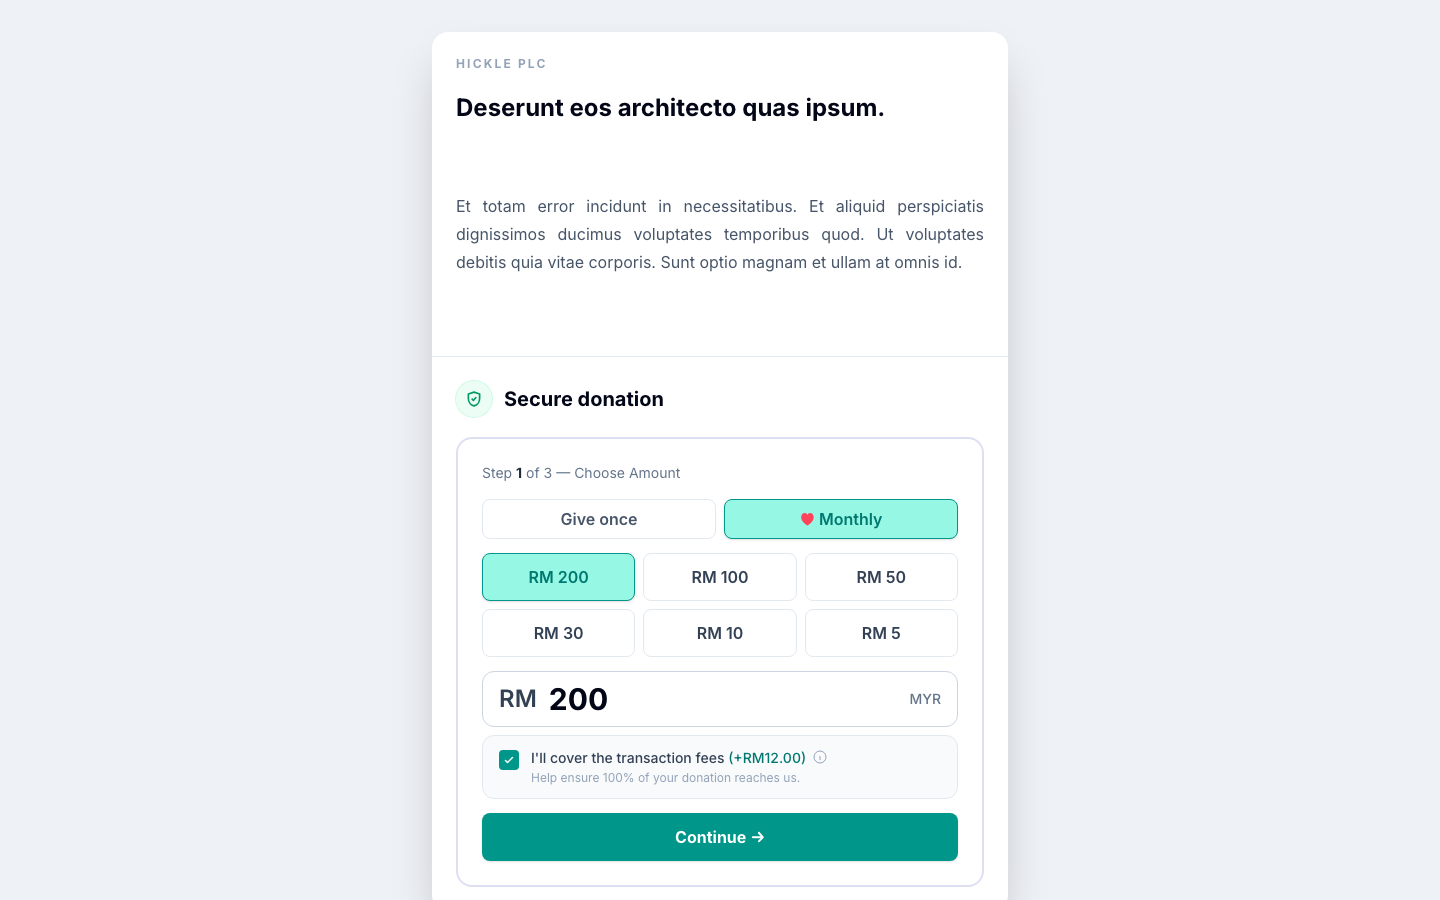
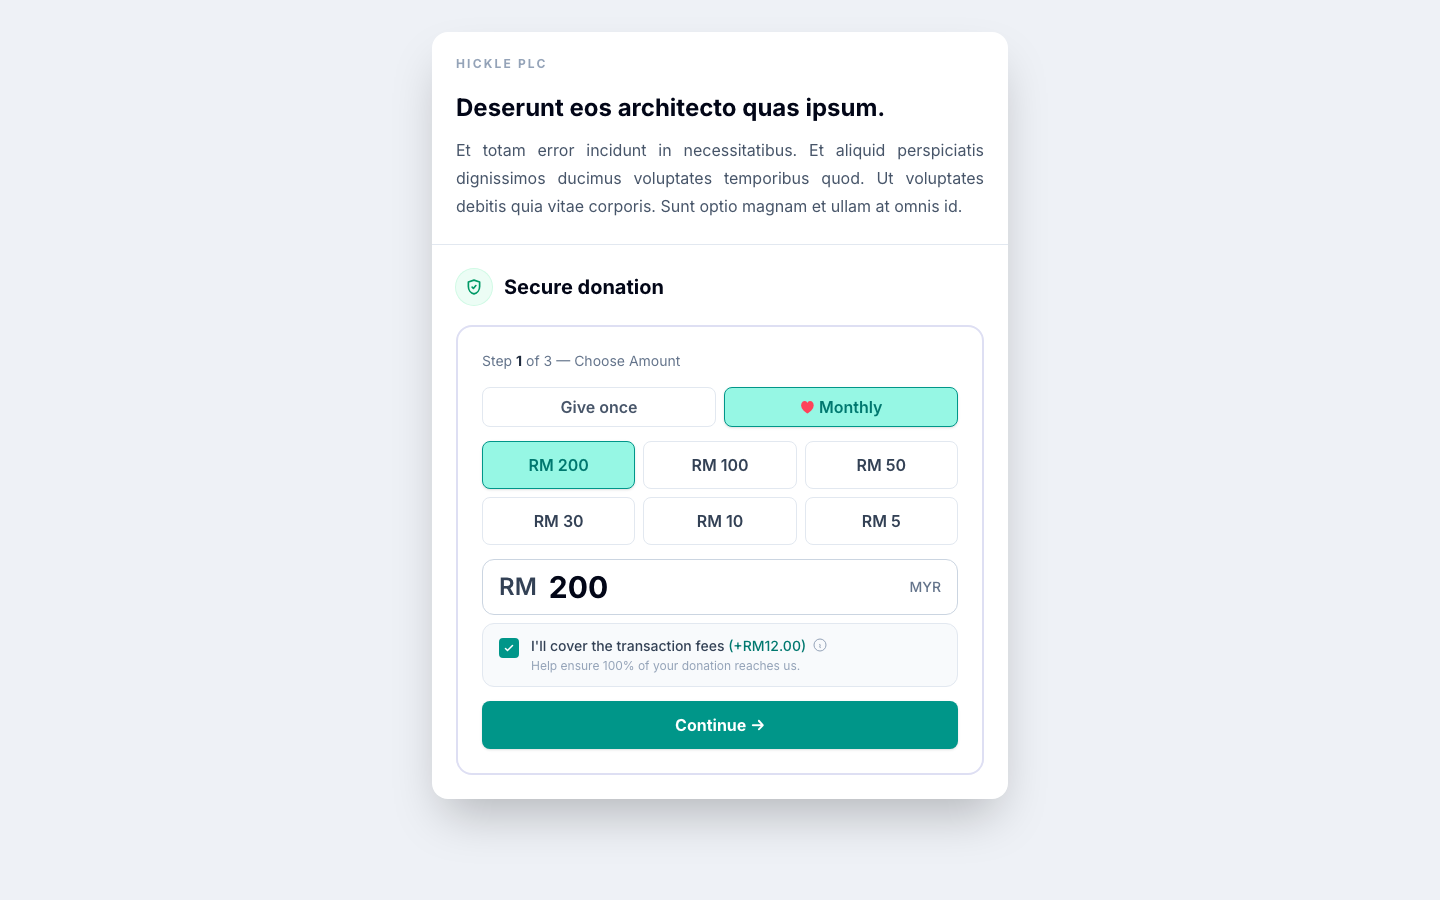
feat(docs): add remaining admin-page screenshots to guides

diff --git a/resources/docs/build-integrate/rest-api.md b/resources/docs/build-integrate/rest-api.md
@@ -2,6 +2,8 @@
 
 The Ihsan REST API lets you read and manage donations, campaigns, donors, and subscriptions programmatically.
 
+![Elements list](/images/docs/app-elements.png)
+
 ## Authentication
 
 Authenticate using a bearer token created from the **API keys** section of your organization settings. Include the token in the `Authorization` header of every request.

diff --git a/resources/docs/engage-supporters/upgrade-links.md b/resources/docs/engage-supporters/upgrade-links.md
@@ -2,6 +2,8 @@
 
 Upgrade links allow you to ask existing donors to increase their recurring contribution with one click.
 
+![Subscription detail](/images/docs/app-subscription-detail.png)
+
 ## How to send an upgrade link
 
 1. Open a donor or subscription record.

diff --git a/resources/docs/run-campaigns/virtual-terminal.md b/resources/docs/run-campaigns/virtual-terminal.md
@@ -2,6 +2,8 @@
 
 The virtual terminal lets you record donations collected outside Ihsan, such as cash, check, or bank transfer.
 
+![Virtual terminal](/images/docs/app-virtual-terminal.png)
+
 ## When to use it
 
 - A donor hands you cash at an event.

diff --git a/resources/docs/getting-started/test-mode.md b/resources/docs/getting-started/test-mode.md
@@ -2,7 +2,7 @@
 
 Test mode lets you simulate donations and review the donor experience without processing real payments.
 
-![Login page](/images/docs/login.png)
+![Donation form](/images/docs/donation-form.png)
 
 ## Enabling test mode
 

diff --git a/resources/docs/engage-supporters/emails.md b/resources/docs/engage-supporters/emails.md
@@ -2,6 +2,8 @@
 
 Ihsan sends automatic emails to keep donors informed and your team up to date.
 
+![Notification settings](/images/docs/app-settings-notifications.png)
+
 ## Donor emails
 
 - Donation receipt with a PDF attachment.

diff --git a/resources/docs/analyze-results/data-export.md b/resources/docs/analyze-results/data-export.md
@@ -2,6 +2,8 @@
 
 Export your fundraising data for accounting, reporting, or external analysis.
 
+![Donation export](/images/docs/app-donations-export.png)
+
 ## Supported formats
 
 - CSV for spreadsheets and reporting tools.

diff --git a/resources/docs/build-integrate/javascript-api.md b/resources/docs/build-integrate/javascript-api.md
@@ -2,6 +2,8 @@
 
 The JavaScript API lets advanced users control the widget programmatically.
 
+![Elements list](/images/docs/app-elements.png)
+
 ## Available methods
 
 - `Ihsan.open()` — open the checkout modal manually.

diff --git a/resources/docs/analyze-results/insights.md b/resources/docs/analyze-results/insights.md
@@ -2,6 +2,8 @@
 
 Insights help you understand trends, donor behavior, and the effectiveness of your campaigns.
 
+![Dashboard](/images/docs/app-dashboard.png)
+
 ## Available reports
 
 - Donation trends over time.

diff --git a/resources/docs/build-integrate/webhooks.md b/resources/docs/build-integrate/webhooks.md
@@ -2,6 +2,8 @@
 
 Ihsan can send webhook events to your server when key events happen.
 
+![Elements list](/images/docs/app-elements.png)
+
 ## Common events
 
 - `donation.created` — a new donation was received.
